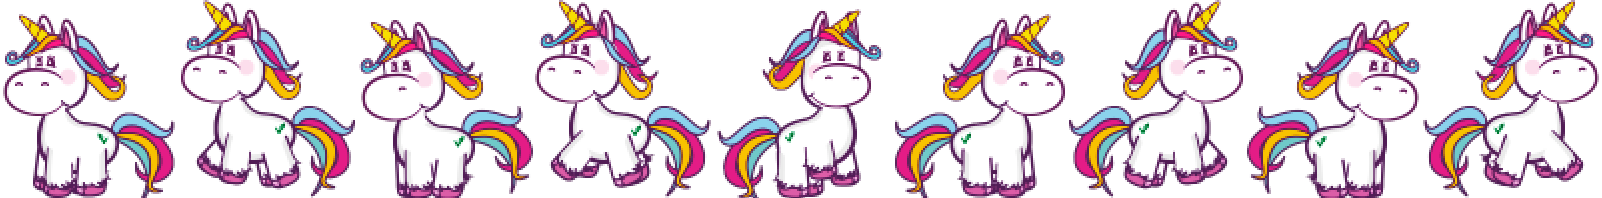
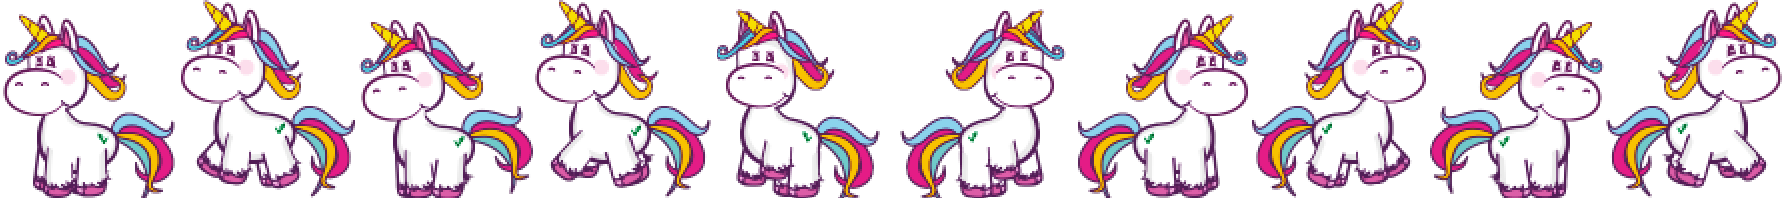
Rescaling Scene

diff --git a/src/index.js b/src/index.js
@@ -1,6 +1,6 @@
 /**!
  * @file Uni the vegan unicorn  
- * @version 1.3.0.1  
+ * @version 2.0.0.0  
  * @copyright Iuri Guilherme 2023  
  * @license GNU AGPLv3  
  * @author Iuri Guilherme <https://iuri.neocities.org/>  
@@ -25,16 +25,17 @@ import { create as mcreate, all } from 'mathjs';
 const math = mcreate(all, {})
 import Phaser from 'phaser';
 
+const version = "2.0.0";
 const sleep = ms => new Promise(r => setTimeout(r, ms));
 // https://github.com/fxhash/fxhash-webpack-boilerplate/issues/20
 const properAlphabet = 
     "123456789ABCDEFGHJKLMNPQRSTUVWXYZabcdefghijkmnopqrstuvwxyz"
 const variantFactor = 3.904e-87; // This number is magic
 const fxhashDecimal = base58toDecimal(fxhashTrunc);
-const featureVariant = fxHashToVariant(fxhashDecimal, 1);
-//~ const featureVariant = -1;
 
-const config = {
+let scm = 0.45;
+
+let config = {
   "type": Phaser.AUTO,
   "width": 800,
   "height": 600,
@@ -72,16 +73,15 @@ let gameOver = false;
 let lastMove = "right";
 
 function preload () {
-  this.load.image("sky", "sky2.png");
+  this.load.image("sky", "sky.png");
   this.load.image("ground", "platform.png");
   this.load.image("ground2", "platform2.png");
   this.load.image("star", "star.png");
   this.load.image("bomb", "bomb.png");
-  this.load.image("camiseta", "camiseta2.png");
   this.load.image("over", "over.png");
   this.load.spritesheet(
     "dude",
-    "dude2.png",
+    "dude.png",
     {
       "frameWidth": 178,
       "frameHeight": 198
@@ -89,14 +89,26 @@ function preload () {
   );
 }
 
-function create () {
+function create() {
+  console.log("featureVariant: " + featureVariant);
+  console.log("version: " + version);
+  console.log("platforms:");
+  let info = Object.keys(this.sys.game.device.os).filter(
+      key => this.sys.game.device.os[key] && key !== 'pixelRatio');
+  for (let i = 0; i < info.length; i++) {
+    console.log(info[i]);
+  }
   this.add.image(400, 300, "sky").setScale(0.4);
   platforms = this.physics.add.staticGroup();
   platforms.create(400, 568, "ground2").setScale(1).refreshBody();
-  platforms.create(600, 400, "ground").setScale(1);
-  platforms.create(50, 250, "ground").setScale(1);
-  platforms.create(750, 220, "ground").setScale(1);
-  player = this.physics.add.sprite(100, 450, "dude").setScale(0.5);
+  for (let i = 1; i < platformsMap[featureVariant].length; i++) {
+    platforms.create(
+      platformsMap[featureVariant][i][0],
+      platformsMap[featureVariant][i][1],
+      "ground"
+    );
+  }
+  player = this.physics.add.sprite(100, 450, "dude").setScale(0.5 * scm);
   player.setBounce(0.2);
   player.setCollideWorldBounds(true);
   this.anims.create({
@@ -168,16 +180,17 @@ function create () {
   cursors = this.input.keyboard.createCursorKeys();
   stars = this.physics.add.group({
     "key": "star",
-    "repeat": 11,
+    "repeat": 13,
     "setXY": {
       "x": 12,
       "y": 0,
-      "stepX": 70
+      "stepX": 60,
+      "stepY": 30
     },
   });
   stars.children.iterate(function (child) {
-    child.setBounceY(Phaser.Math.FloatBetween(0.4, 0.8));
-    child.setScale(0.2);
+    child.setBounceY(fxrand());
+    child.setScale(0.2 * scm);
   });
   bombs = this.physics.add.group();
   vegcoinsText = this.add.text(
@@ -229,14 +242,14 @@ function update () {
   }
   if (player.body.touching.down) {
     if (cursors.up.isDown) {
-      player.setVelocityY(-330);
+      player.setVelocityY(-330 * (scm * 1.5));
       player.anims.play("jump_" + lastMove, true);
     } else if (cursors.left.isDown) {
-      player.setVelocityX(-160);
+      player.setVelocityX(-160 * (scm * 1.5));
       player.anims.play("left", true);
       lastMove = "left";
     } else if (cursors.right.isDown) {
-      player.setVelocityX(160);
+      player.setVelocityX(160 * (scm * 1.5));
       player.anims.play("right", true);
       lastMove = "right";
     } else {
@@ -245,11 +258,11 @@ function update () {
     }
   } else {
     if (cursors.left.isDown) {
-      player.setVelocityX(-160);
+      player.setVelocityX(-160 * (scm * 1.5));
       lastMove = "left";
       player.anims.play("jump_" + lastMove, true);
     } else if (cursors.right.isDown) {
-      player.setVelocityX(160);
+      player.setVelocityX(160 * (scm * 1.5));
       lastMove = "right";
       player.anims.play("jump_" + lastMove, true);
     } else {
@@ -265,14 +278,20 @@ function collectStar (player, star) {
   vegcoinsText.setText("VegCoins: " + vegcoins);
   if (stars.countActive(true) === 0) {
     stars.children.iterate(function (child) {
-      child.enableBody(true, child.x, 0, true, true);
+      child.enableBody(
+        true,
+        child.x,
+        math.round(fxrand() * 450),
+        true,
+        true
+      );
     });
     let x = (player.x < 400) ? Phaser.Math.Between(400, 800) : 
       Phaser.Math.Between(0, 400);
-    let bomb = bombs.create(x, 16, "bomb").setScale(0.36);
+    let bomb = bombs.create(x, 16, "bomb").setScale(0.36 * scm);
     bomb.setBounce(1);
     bomb.setCollideWorldBounds(true);
-    bomb.setVelocity(Phaser.Math.Between(-200, 200), 20);
+    bomb.setVelocity(fxrand() * 400 - 200, 20);
     bomb.allowGravity = false;
   }
 }
@@ -299,7 +318,6 @@ function hitBomb (player, bomb) {
       align: "center"
     }
   );
-  //~ this.add.image(400, 300, "camiseta").setScale(0.6);
   this.physics.pause();
   player.setTint(0xff0000);
   player.anims.play("jump_" + lastMove);
@@ -337,6 +355,20 @@ function fxHashToVariant(decimalHash, maxVariants = 0, inverse = false) {
     return variant;
 }
 
+const platformsMap = [
+  [
+    "zero",
+    [100, 470],
+    [600, 400],
+    [700, 320],
+    [100, 250],
+    [750, 240],
+    [400, 160],
+  ]
+];
+const featureVariant = fxHashToVariant(fxhashDecimal, platformsMap.length - 1);
+//~ const featureVariant = 0;
+
 window.$fxhashFeatures = {
-  "fx(variant)": featureVariant
+  "fx(level)": featureVariant
 }
